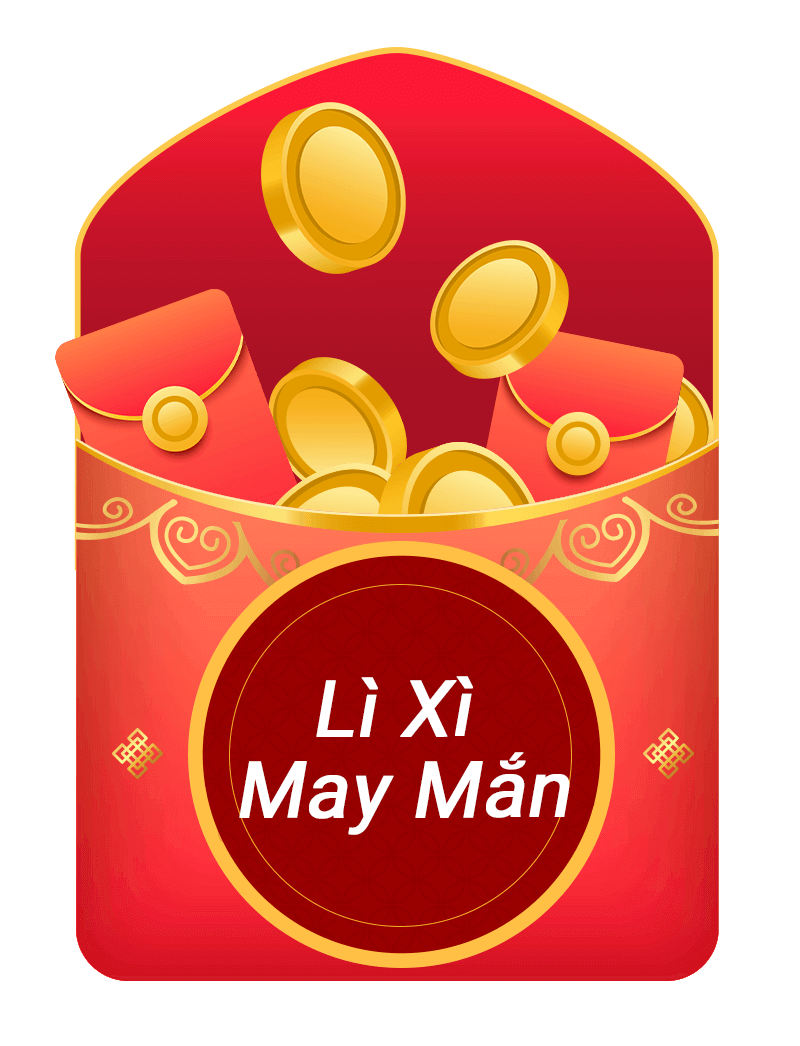
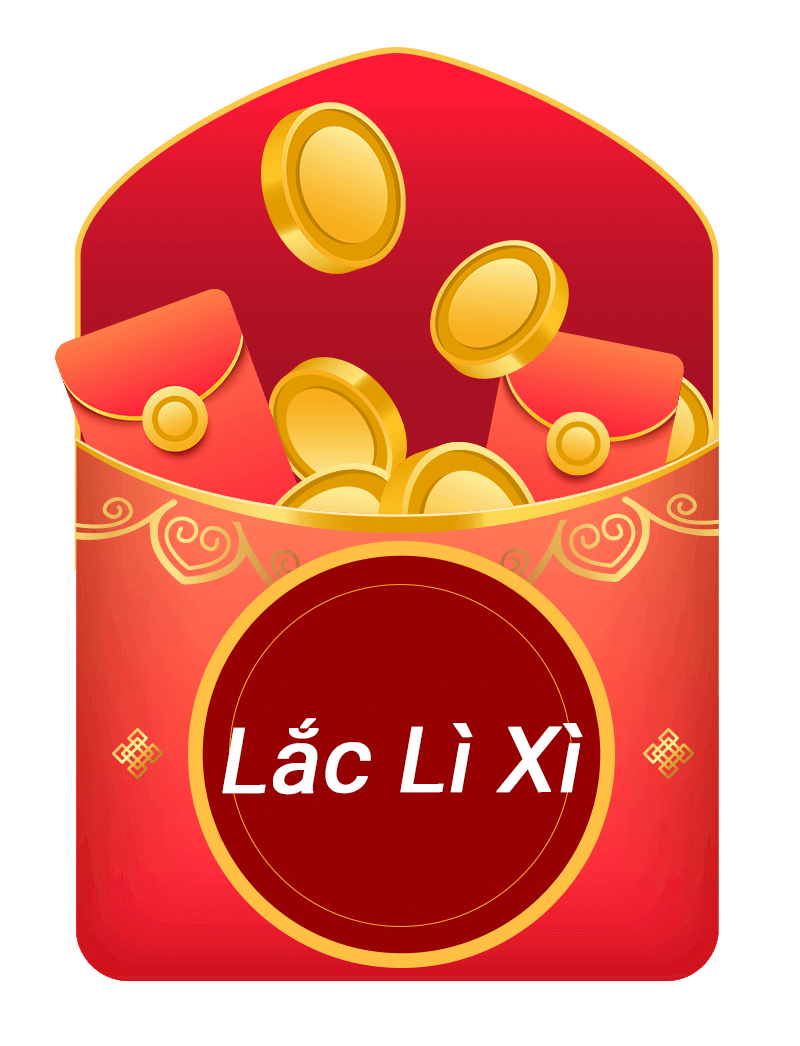
fix-(goal123): Ang Pow - update translation

Changed region(s): [[0.2812, 0.6424, 0.75, 0.7954]]

diff --git a/apps/goal123/src/components/common/layout.js b/apps/goal123/src/components/common/layout.js
@@ -115,7 +115,7 @@ const defPageInfo = {
 		hideLogo: true
 	},
 	angPow: {
-		titleKey: "lbl_AngPow_EventTitle",
+		titleKey: "lbl_NewYearAngPow",
 		className: "main event",
 		hideLogo: true
 	}
